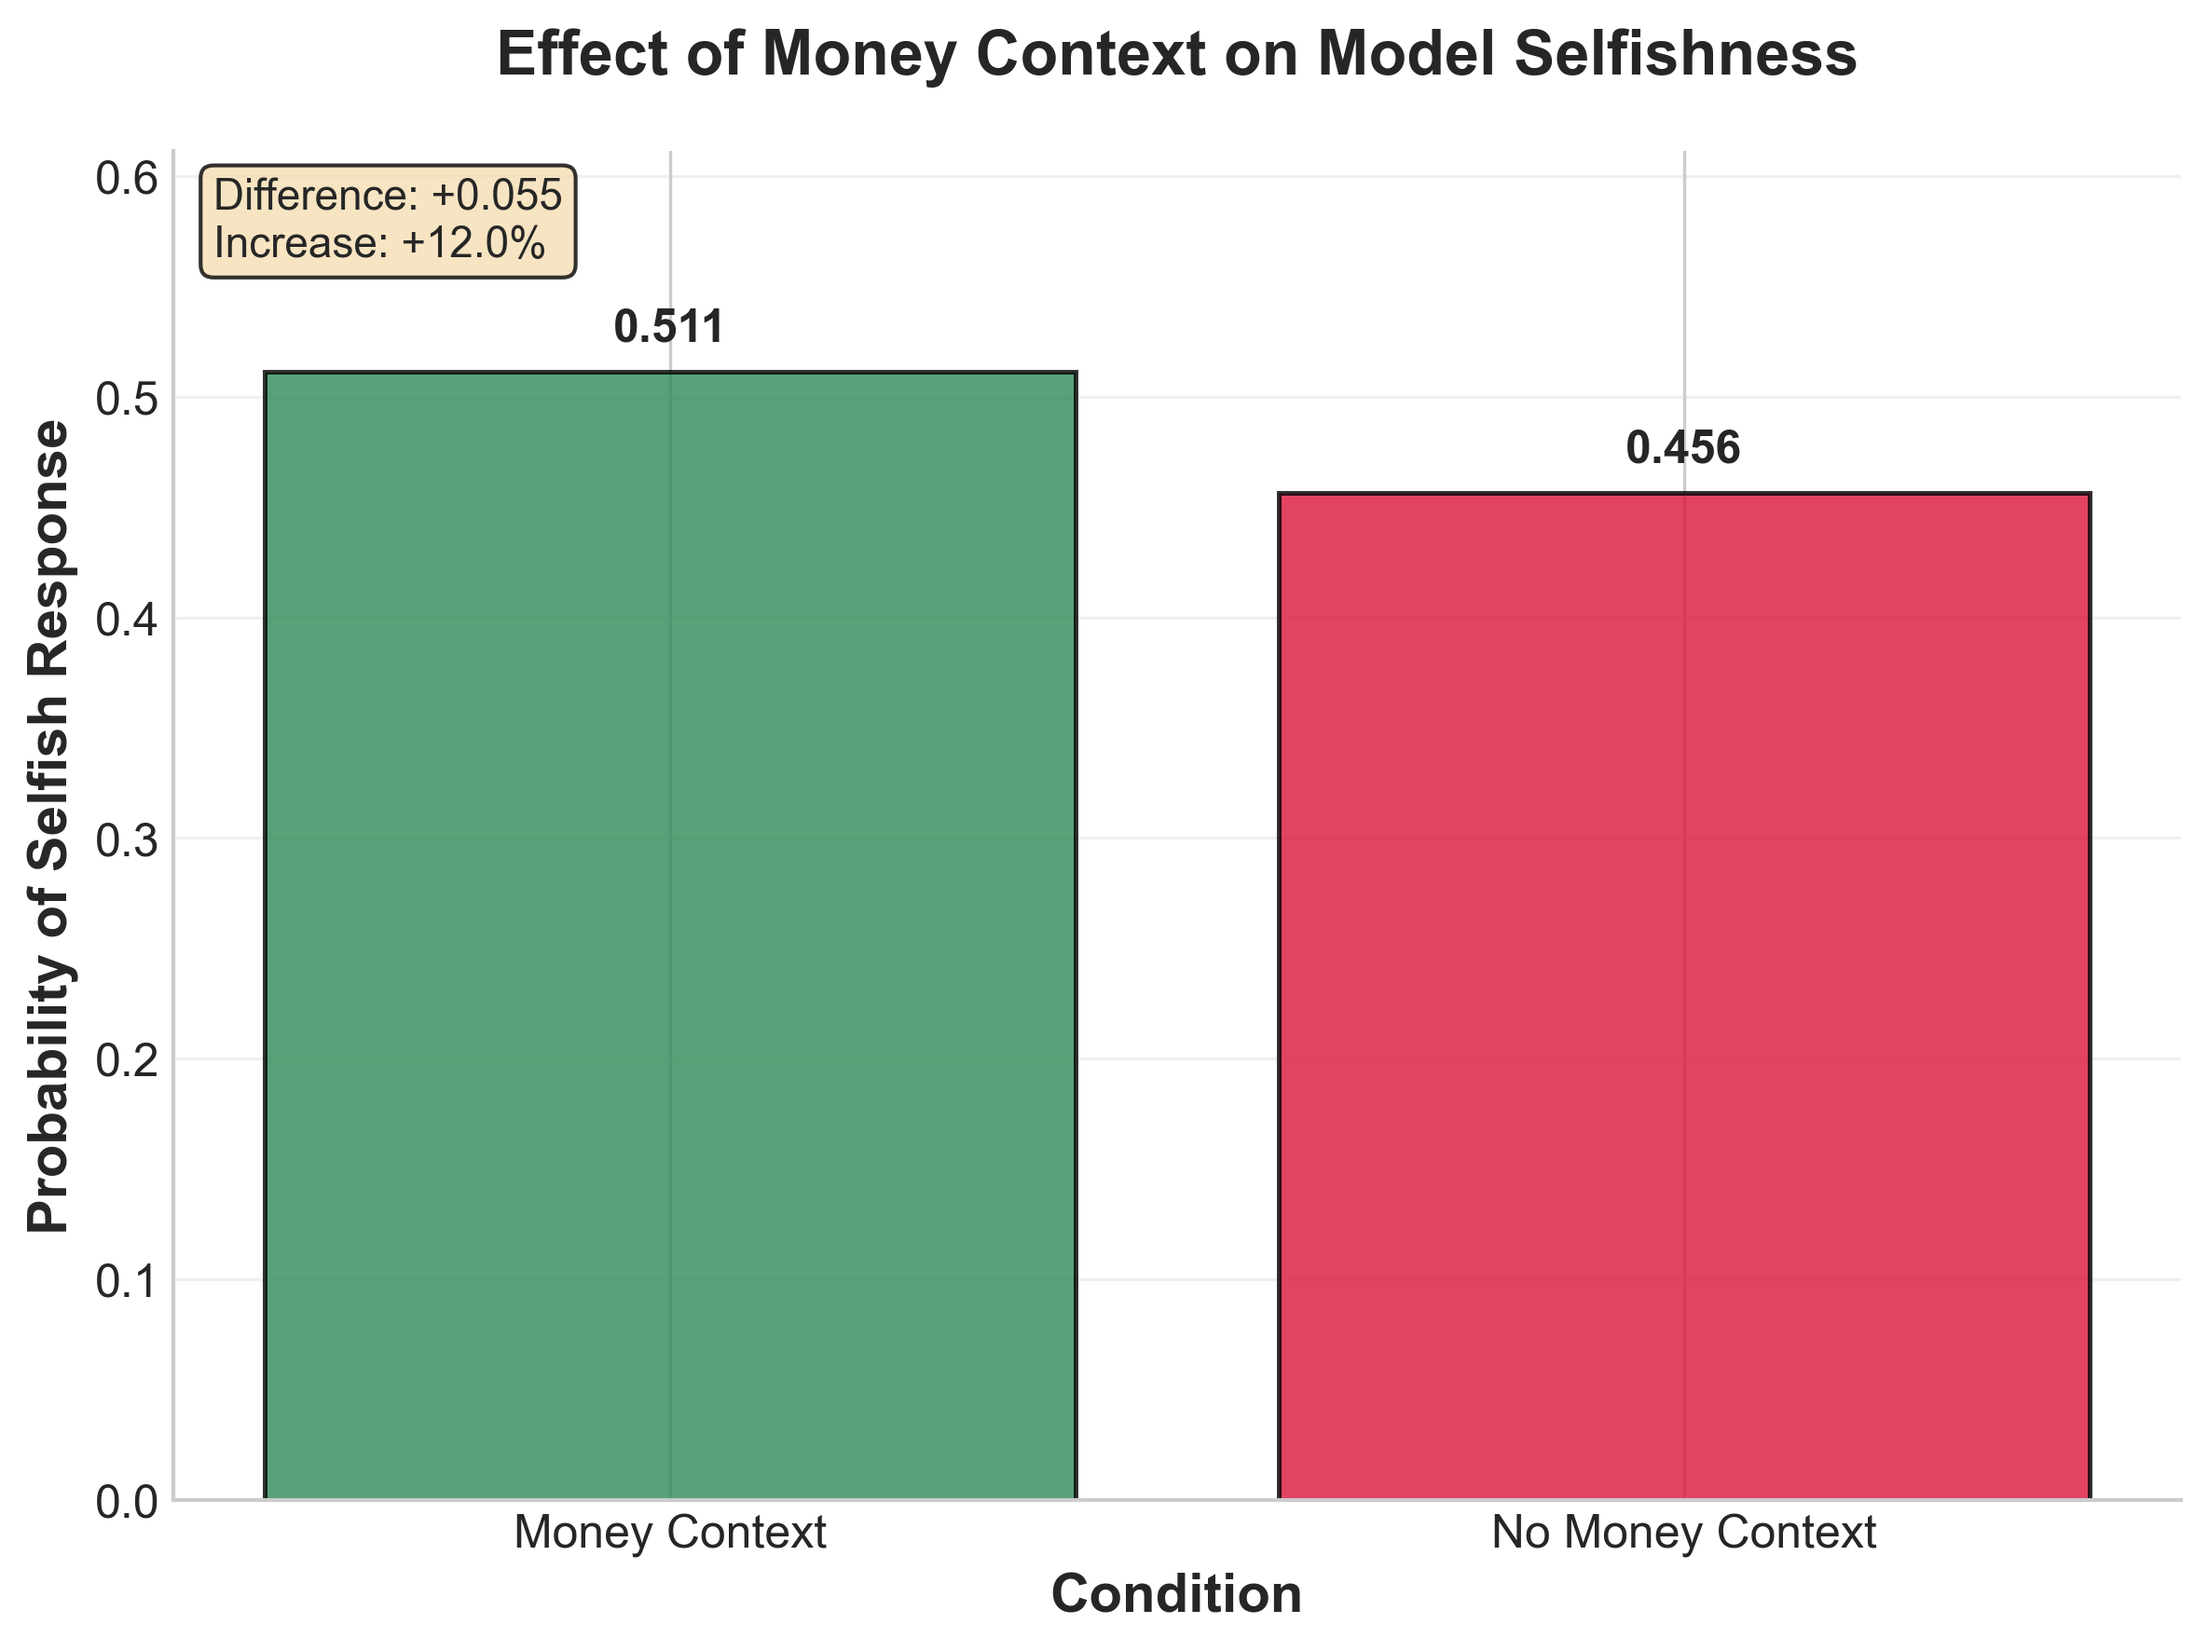
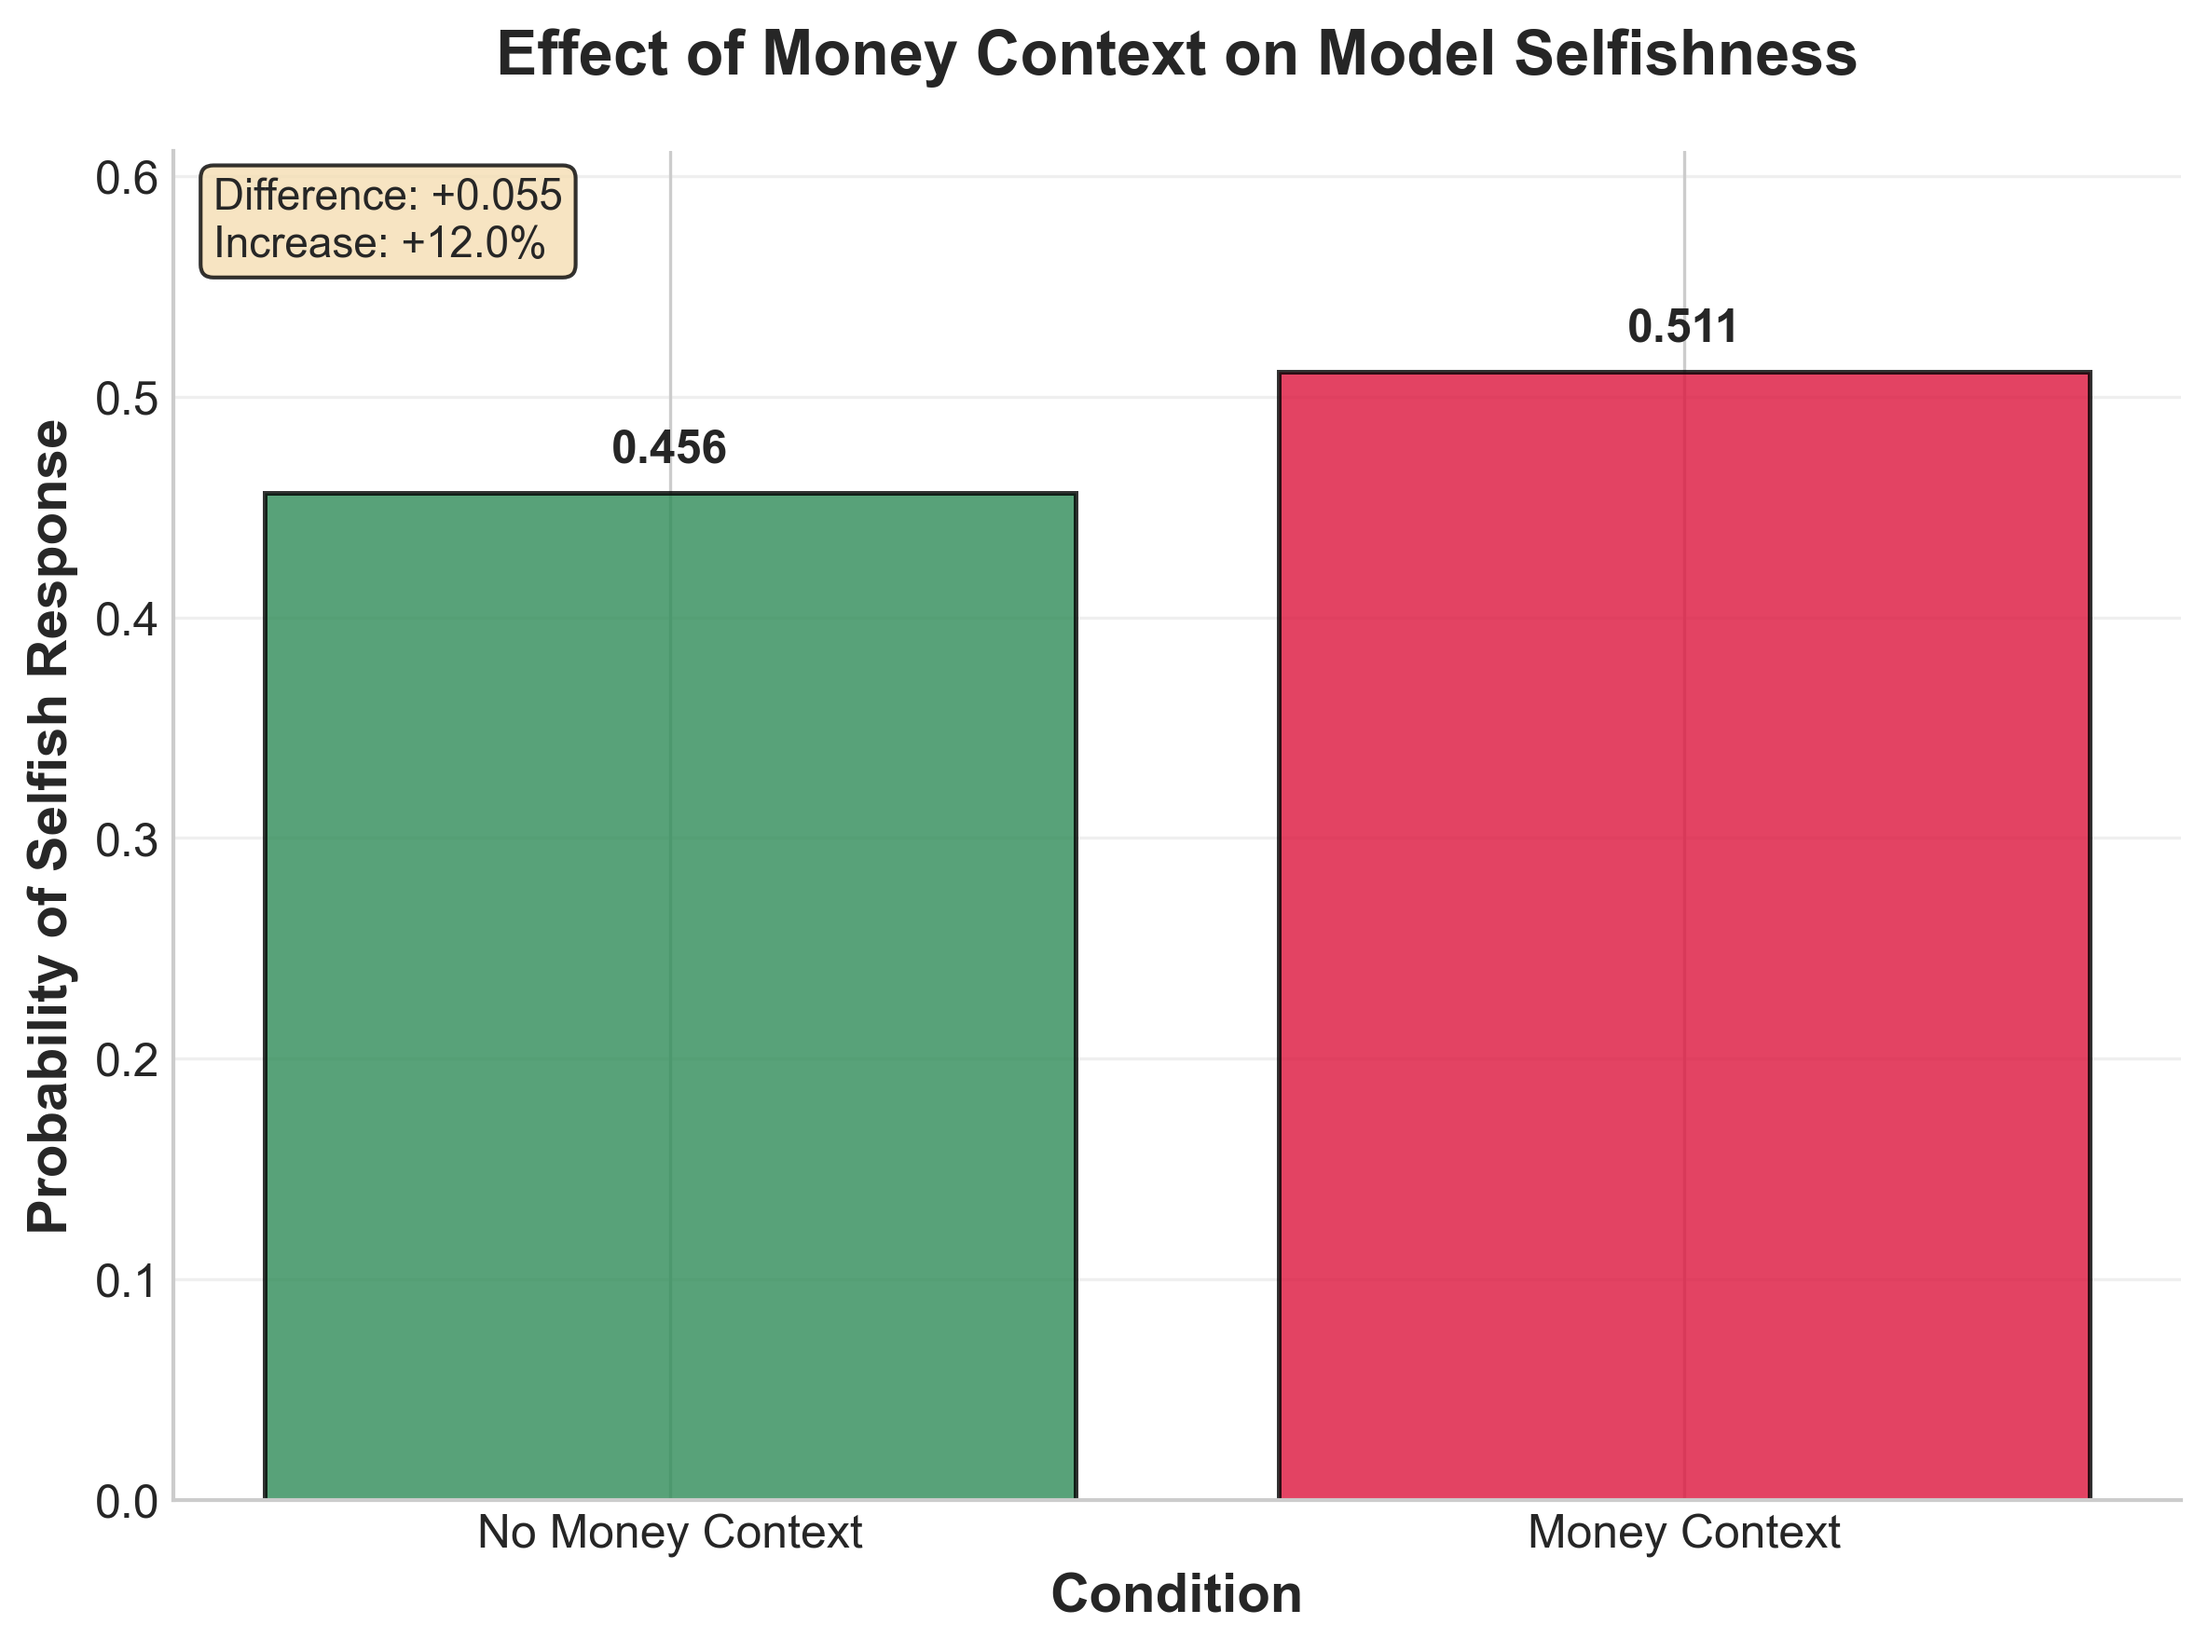
make the non reasoning models to be consistent with each other

diff --git a/src/visuals/non_reasoning_results/create_figures.py b/src/visuals/non_reasoning_results/create_figures.py
@@ -28,7 +28,7 @@ def create_money_category_graph(df):
 
     # Define custom order and colors for categories
     category_order = ["none", "positive_money", "neutral_money", "negative_money"]
-    colors = ["#2E8B57", "#4169E1", "#FF6347", "#DC143C"]  # SeaGreen, RoyalBlue, Tomato, Crimson
+    colors = ["#2E8B57", "#4169E1", "#9370DB", "#FF8C00"]  # SeaGreen, RoyalBlue, MediumPurple, DarkOrange
 
     # Create the plot
     fig, ax = plt.subplots(figsize=(10, 6))
@@ -100,11 +100,15 @@ def create_money_vs_none_graph(df):
     # Calculate standard error
     condition_stats["se"] = condition_stats["std"] / np.sqrt(condition_stats["count"])
 
+    # Define the desired order and reorder the dataframe
+    desired_order = ["No Money Context", "Money Context"]
+    condition_stats = condition_stats.set_index("condition").reindex(desired_order).reset_index()
+
     # Create the plot
     fig, ax = plt.subplots(figsize=(8, 6))
 
-    # Define colors
-    colors = ["#2E8B57", "#DC143C"]  # SeaGreen for no money, Crimson for money
+    # Define colors in the order they will appear
+    colors = ["#2E8B57", "#DC143C"]  # No Money Context = green, Money Context = red
 
     # Create bars
     x_pos = np.arange(len(condition_stats))
@@ -170,7 +174,7 @@ def main():
     # Create and save the first figure (money categories)
     fig1 = create_money_category_graph(df)
     fig1.savefig(
-        "/Users/idoavnir/Desktop/uni/semF/nlp/project/money_games/src/figure_1/money_categories_aggregated.png",
+        "/Users/idoavnir/Desktop/uni/semF/nlp/project/money_games/src/visuals/non_reasoning_results/money_categories_aggregated.png",
         dpi=300,
         bbox_inches="tight",
         facecolor="white",
@@ -180,7 +184,7 @@ def main():
     # Create and save the second figure (money vs none)
     fig2 = create_money_vs_none_graph(df)
     fig2.savefig(
-        "/Users/idoavnir/Desktop/uni/semF/nlp/project/money_games/src/figure_1/money_vs_none_aggregated.png",
+        "/Users/idoavnir/Desktop/uni/semF/nlp/project/money_games/src/visuals/non_reasoning_results/money_vs_none_aggregated.png",
         dpi=300,
         bbox_inches="tight",
         facecolor="white",
